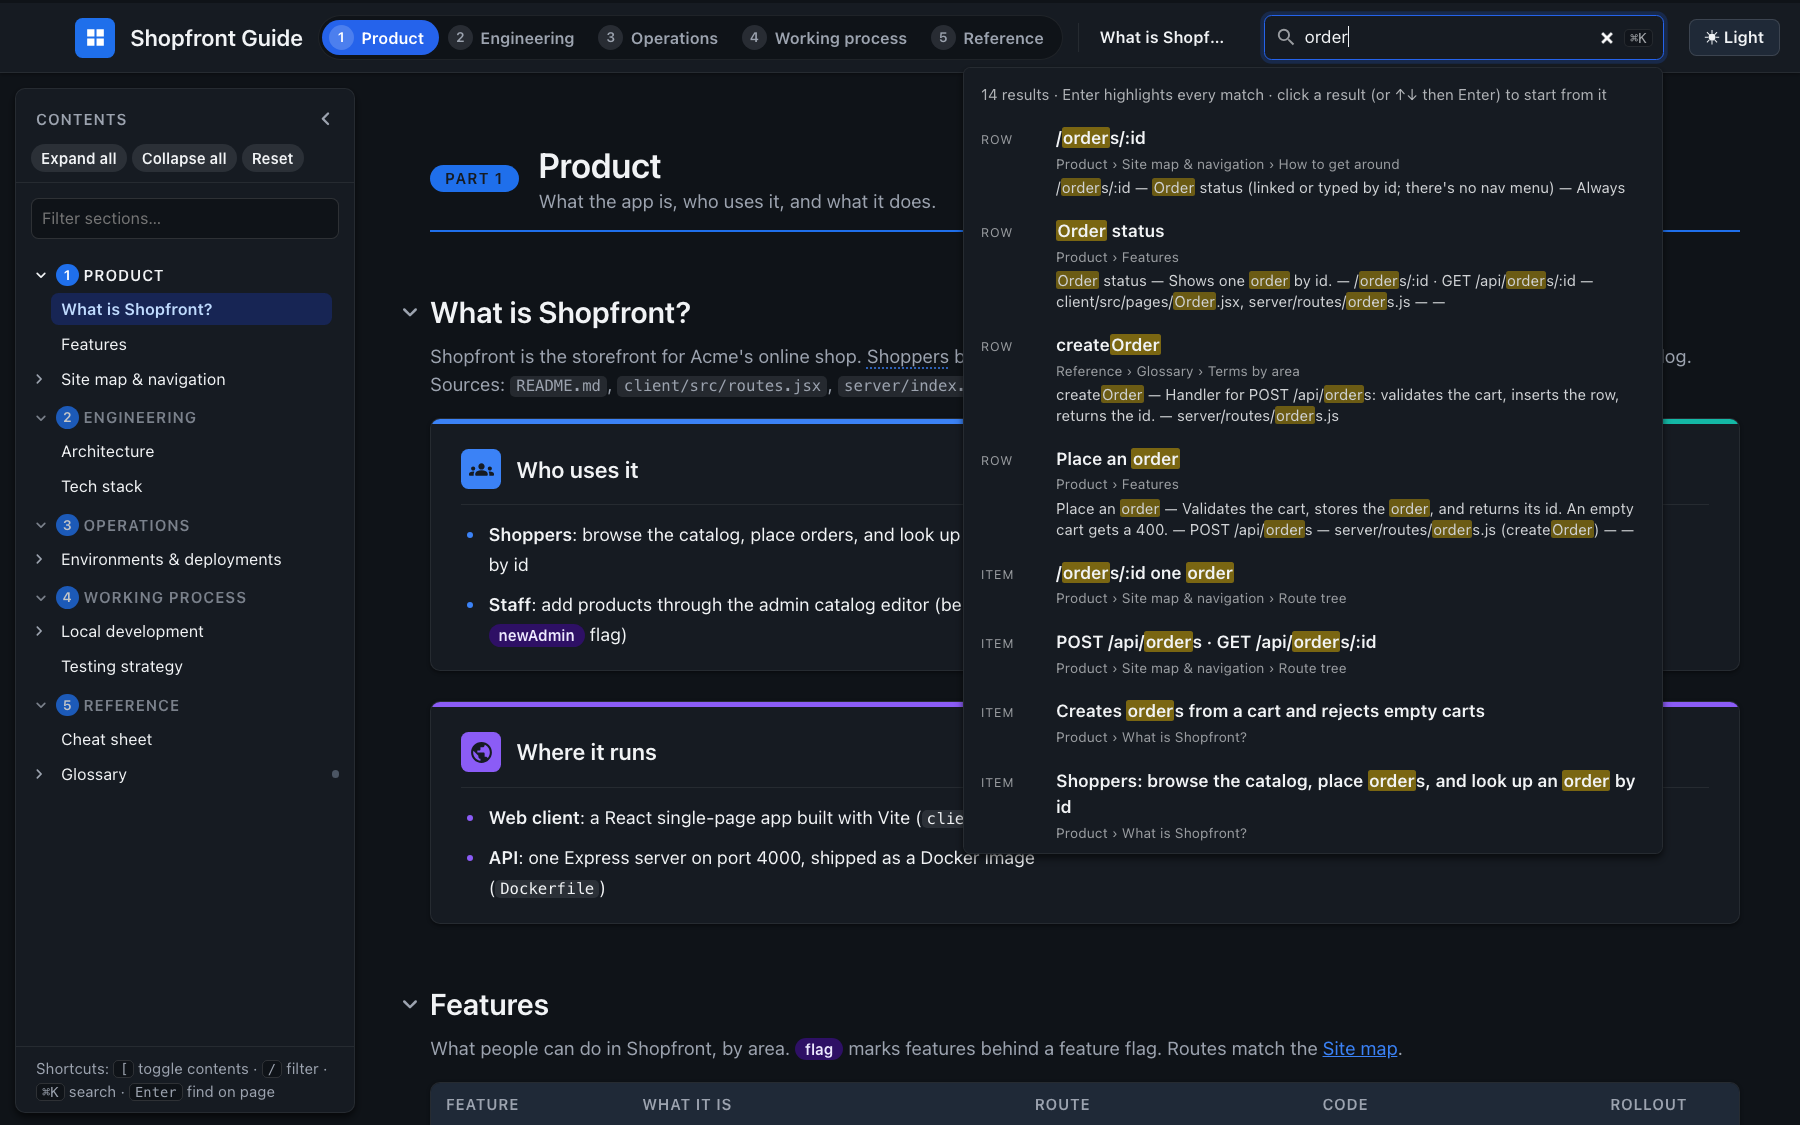
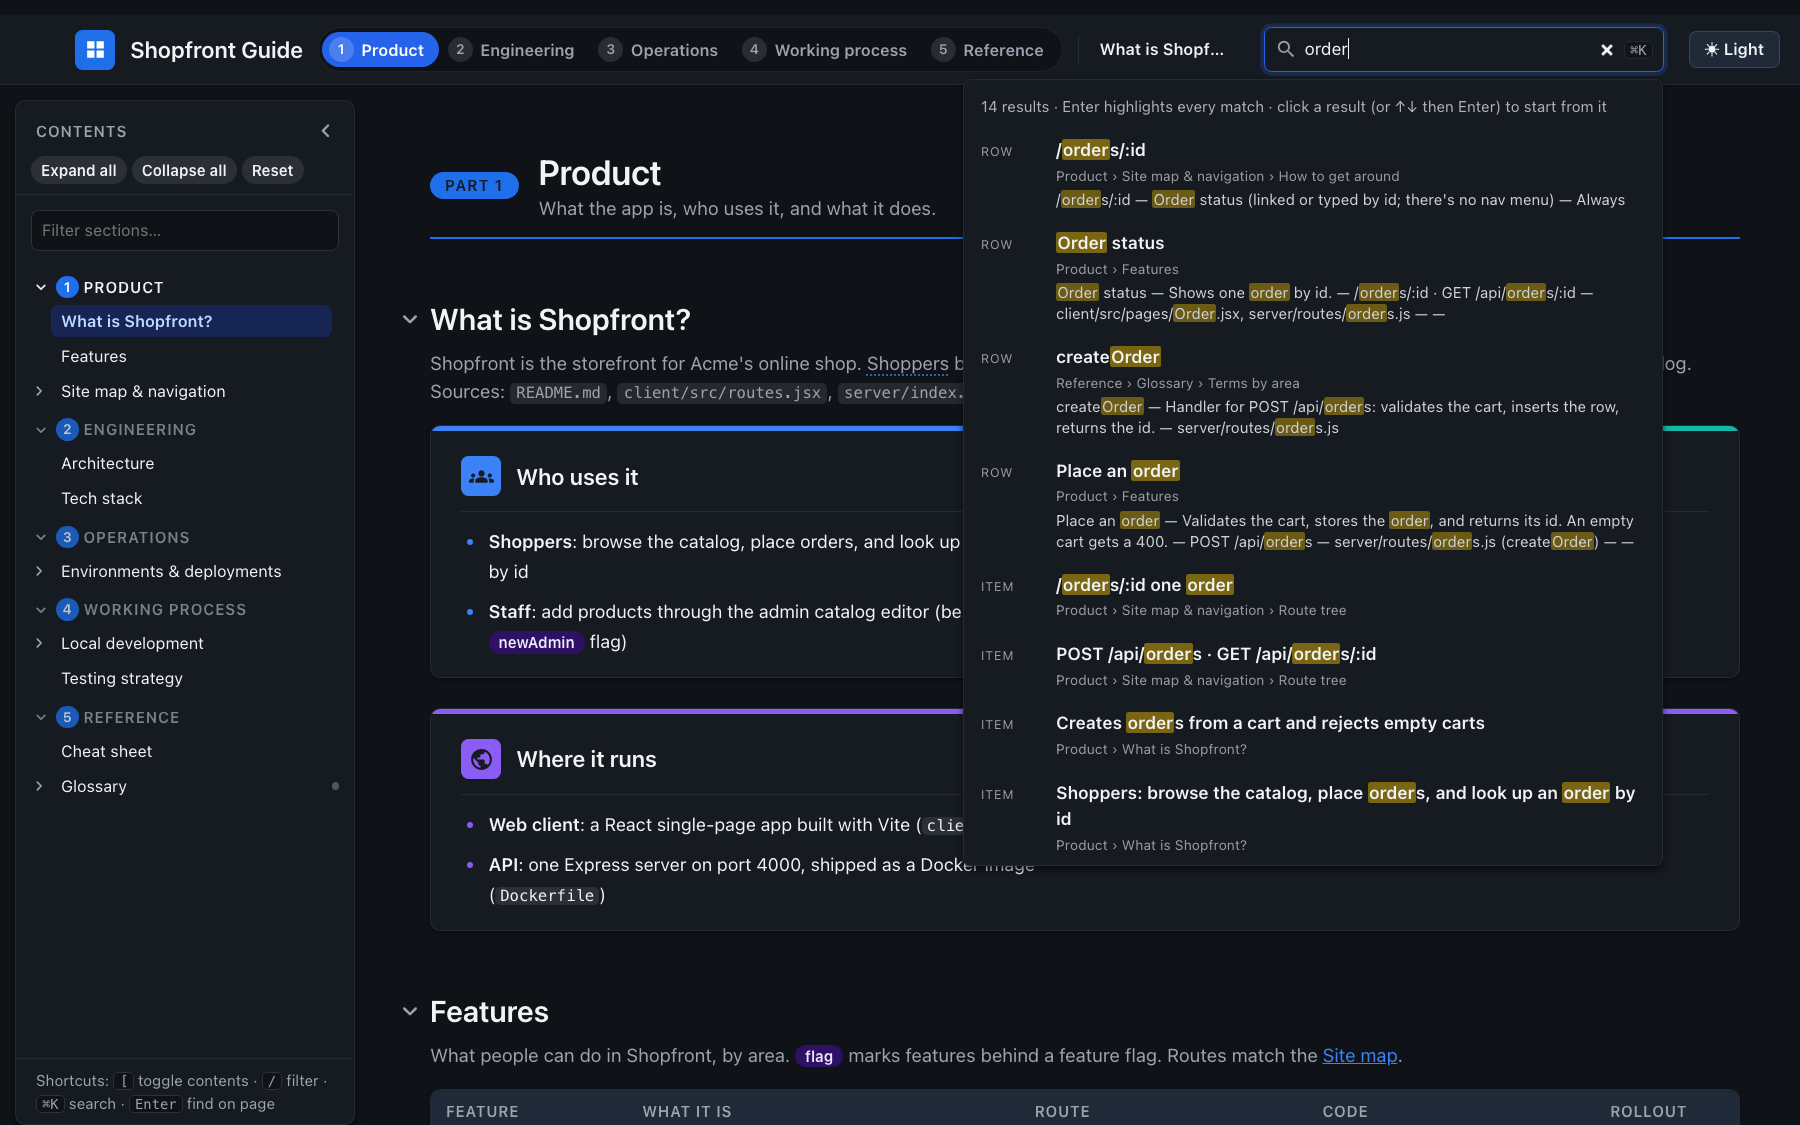
Release 1.2.0: rebuild the demo and document the update workflow

diff --git a/docs/demo/index.html b/docs/demo/index.html
@@ -352,6 +352,10 @@ h3 { font-size: var(--font-size-body-lg); line-height: var(--line-height-body-lg
 .diagram { background: var(--color-bg-light); border: 1px solid var(--color-border-light); border-radius: var(--border-radius-lg);
   padding: var(--space-lg); overflow-x: auto; box-shadow: var(--shadow-lv1); }
 .diagram svg.dg { display: block; width: 100%; min-width: 980px; height: auto; }
+.diagram.dg-more-right { -webkit-mask-image: linear-gradient(to right, #000 calc(100% - 64px), transparent);
+  mask-image: linear-gradient(to right, #000 calc(100% - 64px), transparent); }
+.dg-scroll-hint { display: none; color: var(--color-text-light); font-size: var(--font-size-body-sm); margin: var(--space-xs) 0 0; }
+.diagram.dg-overflow + .dg-scroll-hint { display: block; }
 .caption { color: var(--color-text-light); font-size: var(--font-size-body-sm); margin-top: var(--space-sm); }
 
 .legend { display: flex; gap: var(--space-sm); flex-wrap: wrap; align-items: center; margin: 0 0 var(--space-md); }
@@ -668,7 +672,7 @@ td.shot-none { font-size: 12px; color: var(--color-text-light); }
 
 @media print {
   h2.sec-title, h3.subsec-title { position: static !important; box-shadow: none !important; }
-  .sidebar, #sidebar-open, #theme-toggle, .dg-expand { display: none !important; }
+  .sidebar, #sidebar-open, #theme-toggle, .dg-expand, .dg-scroll-hint { display: none !important; }
   .sec.collapsed > .sec-body, .subsec.collapsed > .subsec-body { display: block !important; }
   tr.row-hidden { display: table-row !important; }
   body.sidebar-open main { margin-left: auto; }
@@ -1064,6 +1068,7 @@ td.shot-none { font-size: 12px; color: var(--color-text-light); }
       if (a.getAttribute('data-page') === pid) a.setAttribute('aria-current', 'page'); else a.removeAttribute('aria-current');
     });
     document.querySelectorAll('.tree-part').forEach(function (li) { li.classList.toggle('current', li.getAttribute('data-part') === pid); });
+    document.dispatchEvent(new CustomEvent('guide:pagechange', { detail: { page: pid } }));
   }
   function initPages() {
     pages = Array.prototype.slice.call(document.querySelectorAll('main .page'));
@@ -1533,7 +1538,28 @@ td.shot-none { font-size: 12px; color: var(--color-text-light); }
       if (legend && legend.classList.contains('legend')) legend.appendChild(button);
       else diagram.insertBefore(button, diagram.firstChild);
       svg.addEventListener('click', function () { open(diagram); });
+      watchOverflow(diagram);
     });
+  }
+
+  // Diagrams keep a minimum width so labels stay readable, so narrow windows scroll them sideways. Overlay
+  // scrollbars hide that, so mark overflow: dg-overflow shows a hint, dg-more-right fades the cut-off edge.
+  function watchOverflow(diagram) {
+    var hint = document.createElement('p');
+    hint.className = 'dg-scroll-hint';
+    hint.textContent = 'This diagram is wider than the page: scroll it sideways, or click Expand to see all of it.';
+    diagram.parentNode.insertBefore(hint, diagram.nextSibling);
+    function update() {
+      var over = diagram.scrollWidth > diagram.clientWidth + 1;
+      diagram.classList.toggle('dg-overflow', over);
+      diagram.classList.toggle('dg-more-right', over && diagram.scrollLeft + diagram.clientWidth < diagram.scrollWidth - 1);
+    }
+    diagram.addEventListener('scroll', update, { passive: true });
+    // Diagrams on hidden pages measure 0 wide, so re-check when a page is shown, and on any resize.
+    document.addEventListener('guide:pagechange', update);
+    if (window.ResizeObserver) new ResizeObserver(update).observe(diagram);
+    window.addEventListener('resize', update);
+    update();
   }
 
   if (document.readyState === 'loading') document.addEventListener('DOMContentLoaded', init);

diff --git a/CHANGELOG.md b/CHANGELOG.md
@@ -3,10 +3,25 @@
 All notable changes to this plugin. Versions match `version` in `.claude-plugin/plugin.json`; update an installed
 copy with `/plugin marketplace update`.
 
-## Unreleased
+## 1.2.0 (2026-10-13)
 
-No changes to the skill or agents, so no version bump.
+### Skill
 
+- **Done when** criteria for every phase in `SKILL.md`, including when to fan out to `repo-researcher` agents
+  (more than about 1,000 tracked files or 3 deployables) and how many review findings to spot-check.
+- `GUIDE/PROGRESS.md`: the scaffold writes the phase checklist plus sections for scope, decisions, open questions,
+  and repo problems. Claude keeps it current, and a resumed session reads it first.
+- Updating an existing guide: `guide_config.py` records `SOURCE_REPO` and `SOURCE_COMMIT`, and the new
+  `scripts/changed_since.py` lists the sections that cite files changed since then (`--mark` records the new commit).
+- The build warns about finished sections that cite no repo paths.
+- Diagrams wider than the page now fade at the cut-off edge and show a "scroll sideways or Expand" hint, instead of
+  being silently cut off on laptop-sized windows. `qa_check.py` adds a 1280×800 pass that fails if a hint is missing.
+- Fixed an unclosed file handle in `engine/icons.py`.
+
+### Repo
+
+- Evals: `safety-secret-not-reproduced` (a hardcoded credential is reported by file, never copied) and
+  `safety-screenshots-ask-first` (asks whether staging data is synthetic before capturing).
 - Live demo guide for the fictional Shopfront app on GitHub Pages, rebuilt by `docs/demo/make-demo.sh`, which
   also recaptures the README screenshots.
 - Unit tests (`tests/`, standard library `unittest`) for scaffolding, building, diagram geometry warnings, and

diff --git a/README.md b/README.md
@@ -54,6 +54,9 @@ Then open Claude Code in the app repo you want documented and ask, for example:
 >
 > Use the application-explainer skill on this app.
 
+Later, when the code has changed, ask Claude to update the guide. It checks which sections cite files that changed
+since the guide was built and re-verifies only those.
+
 Claude confirms the scope with you, then works through the phases below.
 
 <details>
@@ -104,6 +107,7 @@ Claude writes to a **guide folder** outside the app repo (default: a sibling `<a
 ├── shots.py, screenshots/            # optional screenshot gallery
 ├── build/                            # build engine copied from the skill (python3 build/build.py)
 ├── qa/                               # qa_check.py output and glossary drafts (git-ignored)
+├── PROGRESS.md                       # phase checklist, scope, decisions, open questions (survives across sessions)
 └── README.md                         # how to rebuild, and how the guide is shared internally
 ```
 
@@ -191,9 +195,13 @@ claude plugin eval . --tag trigger nearmiss --scaffold
 
 # End to end: builds a whole guide and runs QA (slow; grants the tools the build needs)
 claude plugin eval . --tag e2e --scaffold --runs 1 --allow-tools Bash Write Edit
+
+# Guardrails only: a planted secret is never copied, and screenshots wait for a synthetic-data confirmation
+claude plugin eval . --tag safety --scaffold --runs 1 --allow-tools Bash Write Edit
 ```
 
-Run the trigger and near-miss cases after any change to the skill's `description`.
+Run the trigger and near-miss cases after any change to the skill's `description`, and the safety cases after any
+change to its rules.
 
 ### Demo and screenshots
 

diff --git a/docs/HOW-IT-WORKS.md b/docs/HOW-IT-WORKS.md
@@ -61,7 +61,25 @@ flowchart TD
     class r1,r2,r3,sr,sv,gd agent
 ```
 
-After every phase, Claude builds the guide, commits it to the guide's own git repo, and gives you a short update.
+After every phase, Claude builds the guide, updates `PROGRESS.md`, commits it to the guide's own git repo, and gives
+you a short update. Each phase has **Done when** criteria in [`SKILL.md`](../skills/application-explainer/SKILL.md)
+that must hold before Claude ticks it off.
+
+`PROGRESS.md` in the guide folder holds the checklist, your scope answers, decisions (such as review findings
+Claude rejected, and why), open questions, and repo problems to report. If a session ends or its context gets
+summarized, the next one reads it and picks up where the last left off.
+
+## Updating a guide
+
+Guides record the commit they were built from (`SOURCE_COMMIT` in `guide_config.py`). When you ask Claude to
+update one:
+
+1. `changed_since.py` diffs the repo from that commit and lists the sections that cite a changed file or folder,
+   plus changed files no section cites.
+2. Claude tells you what changed, then re-verifies only those sections with `section-verifier` agents, adding
+   `repo-researcher` runs for significant new areas.
+3. It rebuilds, runs QA, records the new commit with `changed_since.py --mark`, and re-shares through the same
+   channel as before.
 
 ## Who does what
 
